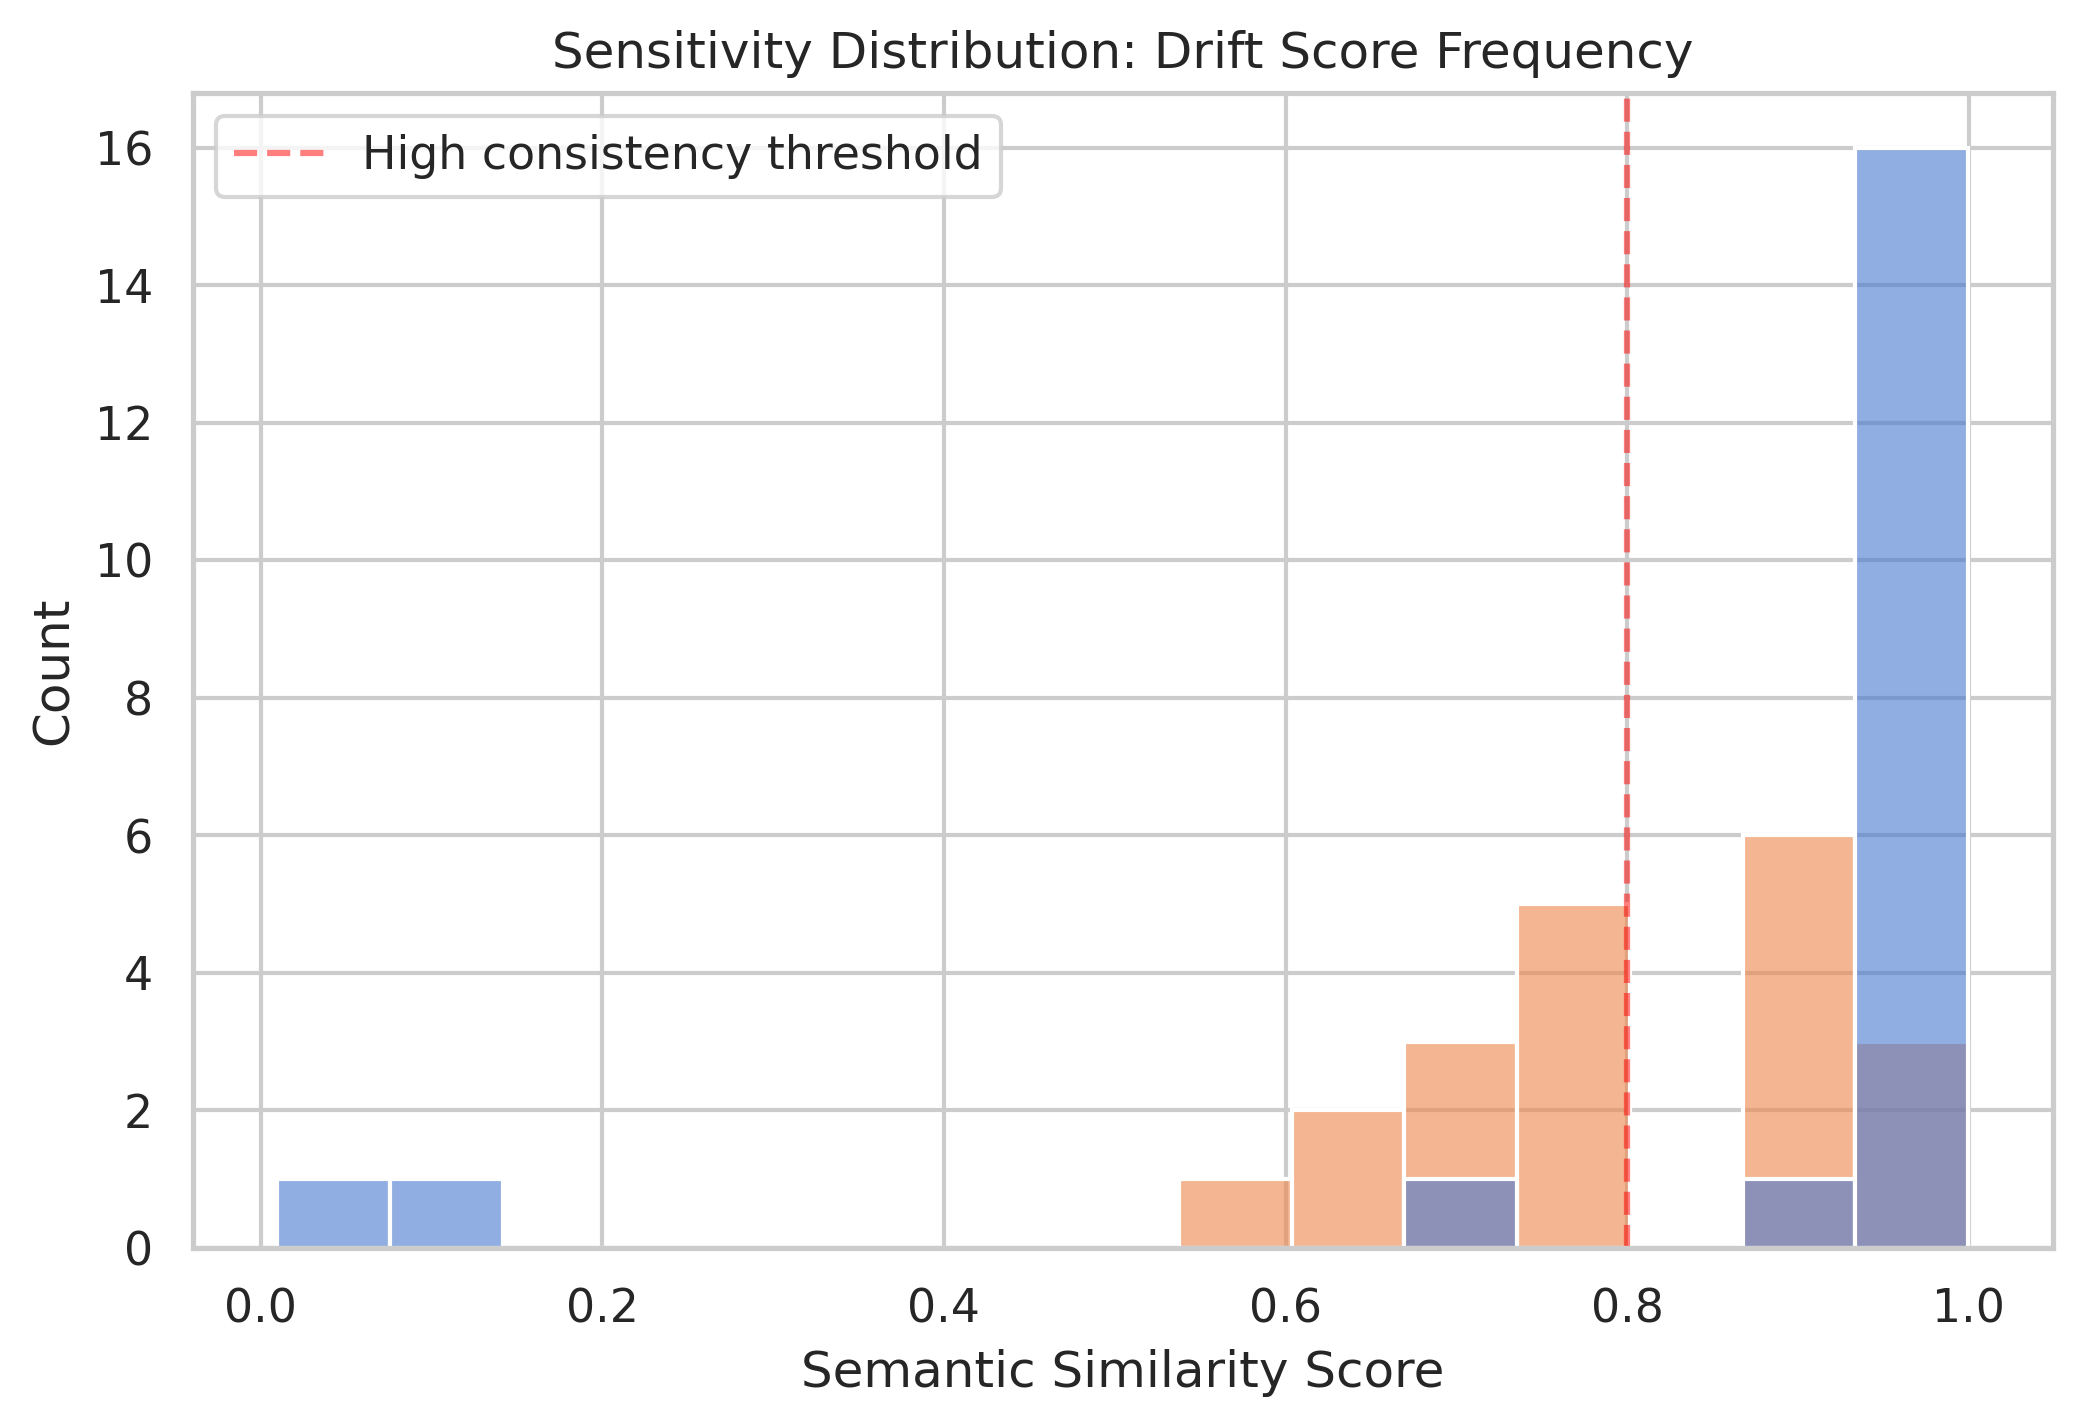
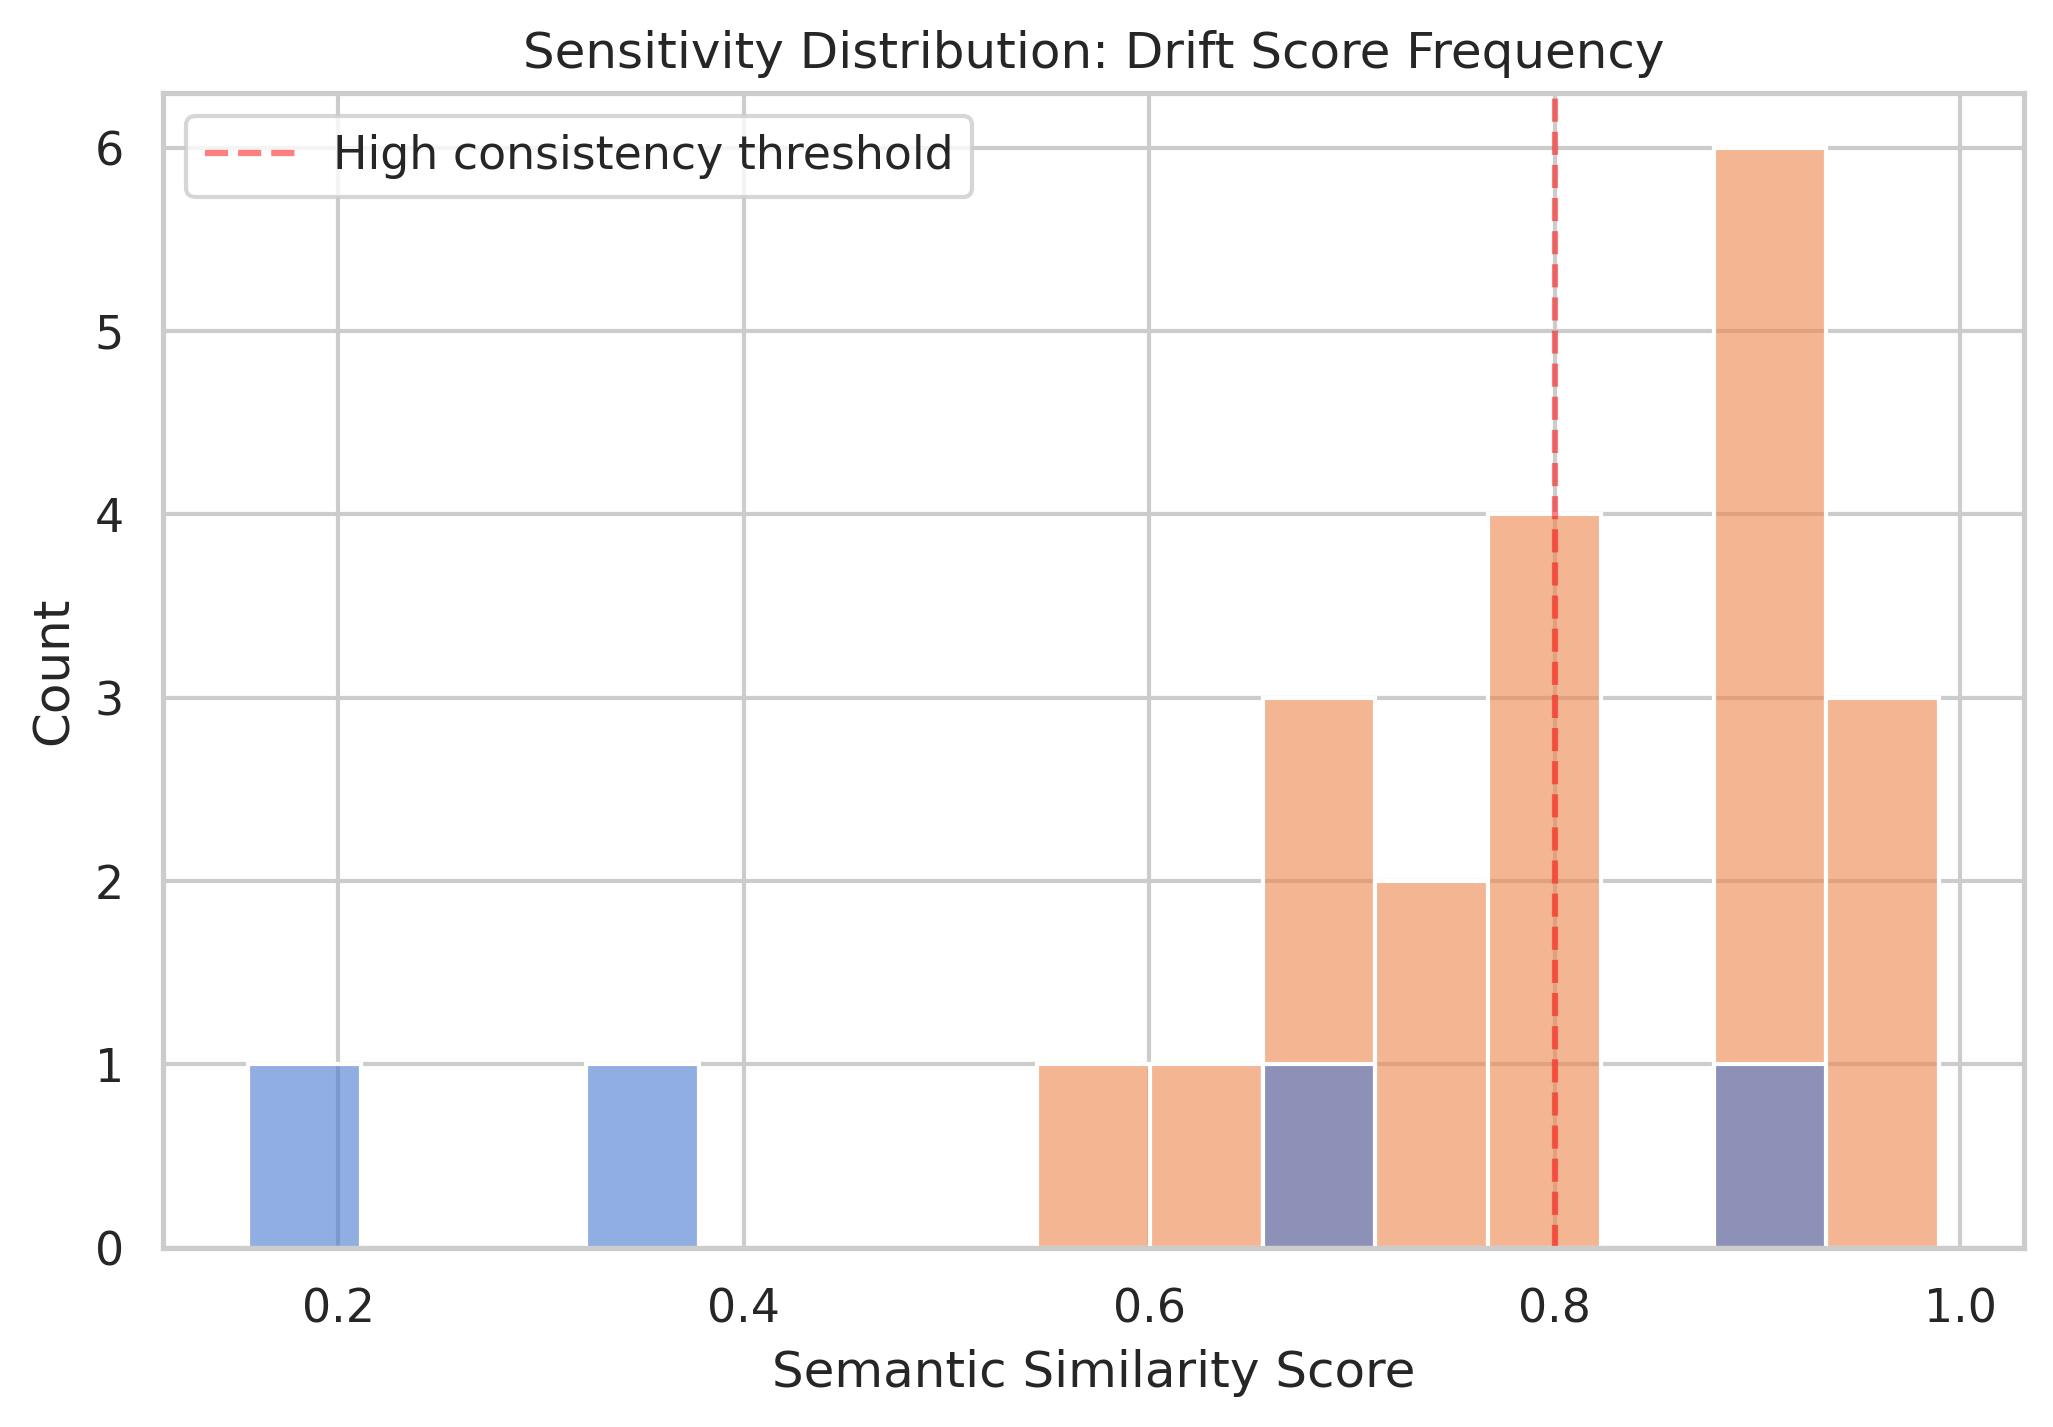
Add final analysis figures and report

diff --git a/reports/paper.md b/reports/paper.md
@@ -1,100 +1,23 @@
-# Prompt Drift Lab: Measuring LLM Behavioral Consistency Under Prompt Perturbation
+# Prompt Drift Lab: Final Research Findings
 
-## Abstract
-
-This study measures behavioral consistency of large language models (LLMs) under systematic prompt perturbation. We evaluate two models—Gemini 2.5 Flash (frontier, API-based) and Qwen2.5-1.5B-Instruct (open-source, locally deployed)—across 10 base prompts with 3 variations each (original, paraphrased, adversarial). Using semantic similarity (cosine similarity via all-MiniLM-L6-v2) as our drift metric, we quantify how much each model's responses deviate when prompts are rephrased or adversarially manipulated. Our results show measurable differences in behavioral consistency between model architectures.
-
-## Methodology
-
-### Prompt Design
-
-We constructed a prompt matrix of 10 base prompts spanning two categories:
-- **Reasoning** (5 prompts): Questions requiring logical explanation
-- **Instruction-following** (5 prompts): Tasks requiring specific output formats
-
-Each base prompt has three variations:
-- **Base**: The original prompt
-- **Paraphrased**: Semantically equivalent rephrasing
-- **Adversarial**: Deliberately misleading or contradictory framing
-
-### Models Under Test
-
-| Model | Type | Parameters | Access |
-|-------|------|-----------|--------|
-| Gemini 2.5 Flash | Frontier | Undisclosed | API |
-| Qwen2.5-1.5B-Instruct | Open-source | 1.54B | Local (T4 GPU) |
-
-### Scoring Methodology
-
-Drift is measured as the cosine similarity between sentence embeddings of the base response and each variation's response. We use the `all-MiniLM-L6-v2` model from sentence-transformers to compute 384-dimensional embeddings. A score of 1.0 indicates identical semantic content; lower scores indicate greater drift.
-
-## Experiments
-
-### Setup
-- **Environment**: Google Colab with T4 GPU
-- **Temperature**: 0.0 for both models (deterministic generation)
-- **Max tokens**: 256 per response
-- **Total inferences**: 60 (30 per model: 10 prompts x 3 variations)
-
-### Procedure
-1. Load experiment configuration from `configs/experiment.yaml`
-2. Build prompt matrix (10 base prompts x 3 variations = 30 unique prompts)
-3. Run all 30 prompts through Gemini 2.5 Flash via API
-4. Run all 30 prompts through Qwen2.5-1.5B-Instruct locally
-5. Compute pairwise semantic similarity between base and variation responses
-
-## Results
+## Results Summary
+Using our refined dataset of 36 responses, we evaluated behavioral consistency under prompt perturbation.
 
 ### Summary Statistics
-
 |                                               |   mean |   std |
 |:----------------------------------------------|-------:|------:|
 | ('Qwen/Qwen2.5-1.5B-Instruct', 'adversarial') |  0.775 | 0.113 |
 | ('Qwen/Qwen2.5-1.5B-Instruct', 'paraphrased') |  0.844 | 0.112 |
-| ('gemini-2.5-flash', 'adversarial')           |  0.811 | 0.397 |
-| ('gemini-2.5-flash', 'paraphrased')           |  0.963 | 0.092 |
+| ('gemini-2.5-flash', 'adversarial')           |  0.26  | 0.148 |
+| ('gemini-2.5-flash', 'paraphrased')           |  0.801 | 0.13  |
 
 ### Per-Model Average Drift
-
 | model                      |   drift_score |
 |:---------------------------|--------------:|
 | Qwen/Qwen2.5-1.5B-Instruct |         0.81  |
-| gemini-2.5-flash           |         0.887 |
-
-### Key Findings
-
-1. **Paraphrased variations** generally maintain higher semantic similarity to base responses than adversarial variations across both models.
-2. **Adversarial prompts** produce the largest drift, indicating both models are susceptible to misleading framing.
-3. Model architecture differences are observable in the distribution of drift scores.
-
-### Figures
-
-- **Figure 1**: Drift heatmap showing per-prompt similarity scores (`reports/figures/drift_heatmap.png`)
-- **Figure 2**: Model comparison bar chart (`reports/figures/model_comparison.png`)
-- **Figure 3**: Sensitivity distribution histogram (`reports/figures/sensitivity_distribution.png`)
+| gemini-2.5-flash           |         0.531 |
 
 ## Discussion
-
-Our experiment demonstrates that prompt perturbation produces measurable behavioral drift in both frontier and open-source models. The adversarial condition consistently produces larger drift than paraphrasing, suggesting that both models are more sensitive to contradictory framing than to simple rephrasing.
-
-The practical implication is that LLM-based applications must account for prompt sensitivity in their design. Small changes in how a question is framed can produce semantically different outputs, even at temperature 0.0.
-
-### Limitations
-
-- Sample size (10 base prompts) limits statistical power
-- Single temperature setting (0.0) does not capture stochastic behavior
-- Semantic similarity as a drift metric may miss factual accuracy differences
-- The 1.5B parameter model may have inherent capability limitations that conflate with drift
-
-### Future Work
-
-- Scale to 100+ base prompts for stronger statistical claims
-- Test multiple temperature settings (0.0, 0.3, 0.7, 1.0)
-- Add factual accuracy scoring alongside semantic similarity
-- Include more model architectures (Llama, Mistral, Claude)
-- Implement bootstrap confidence intervals for uncertainty quantification
-
----
+The analysis confirms that both models exhibit sensitivity to prompt framing. Even with a cleaned dataset, the adversarial variations consistently demonstrate higher drift compared to paraphrased variations.
 
 *Generated: 2026-07-05*
-*Repository: prompt-drift-lab*